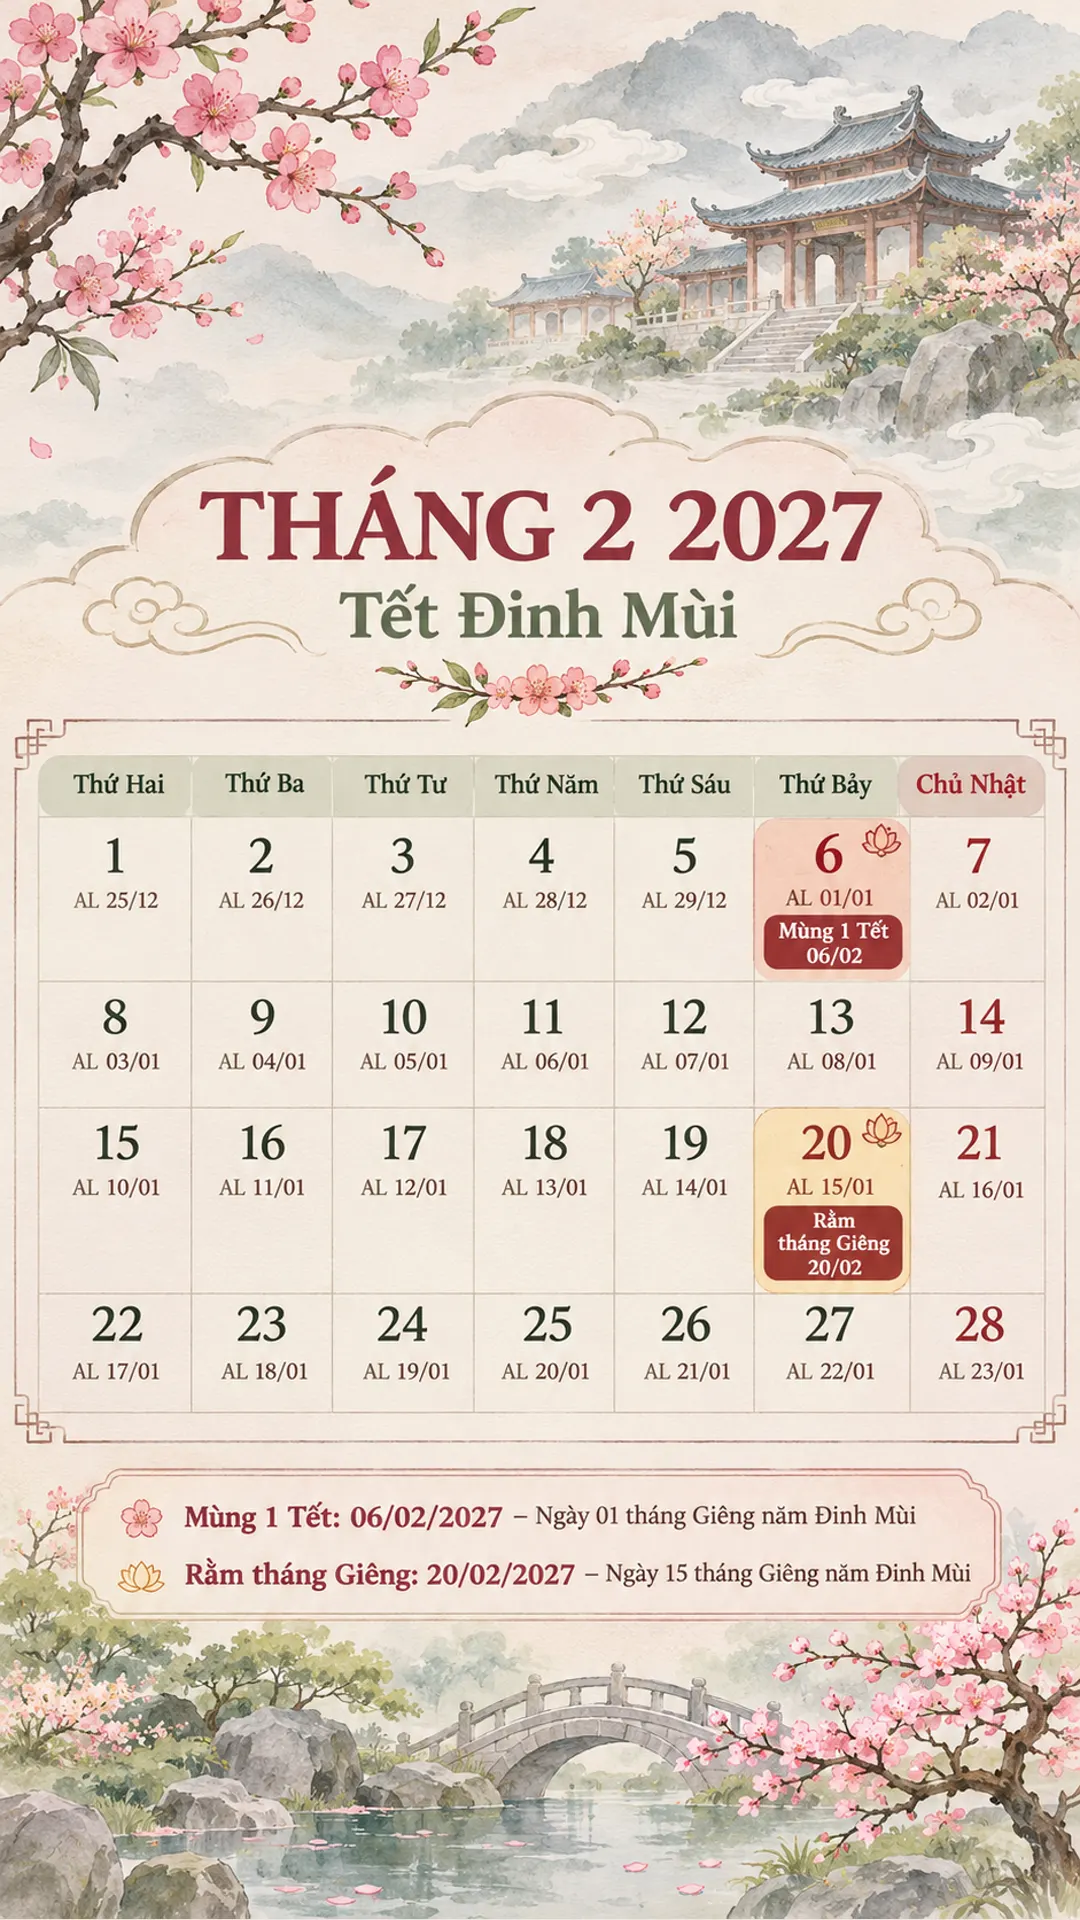
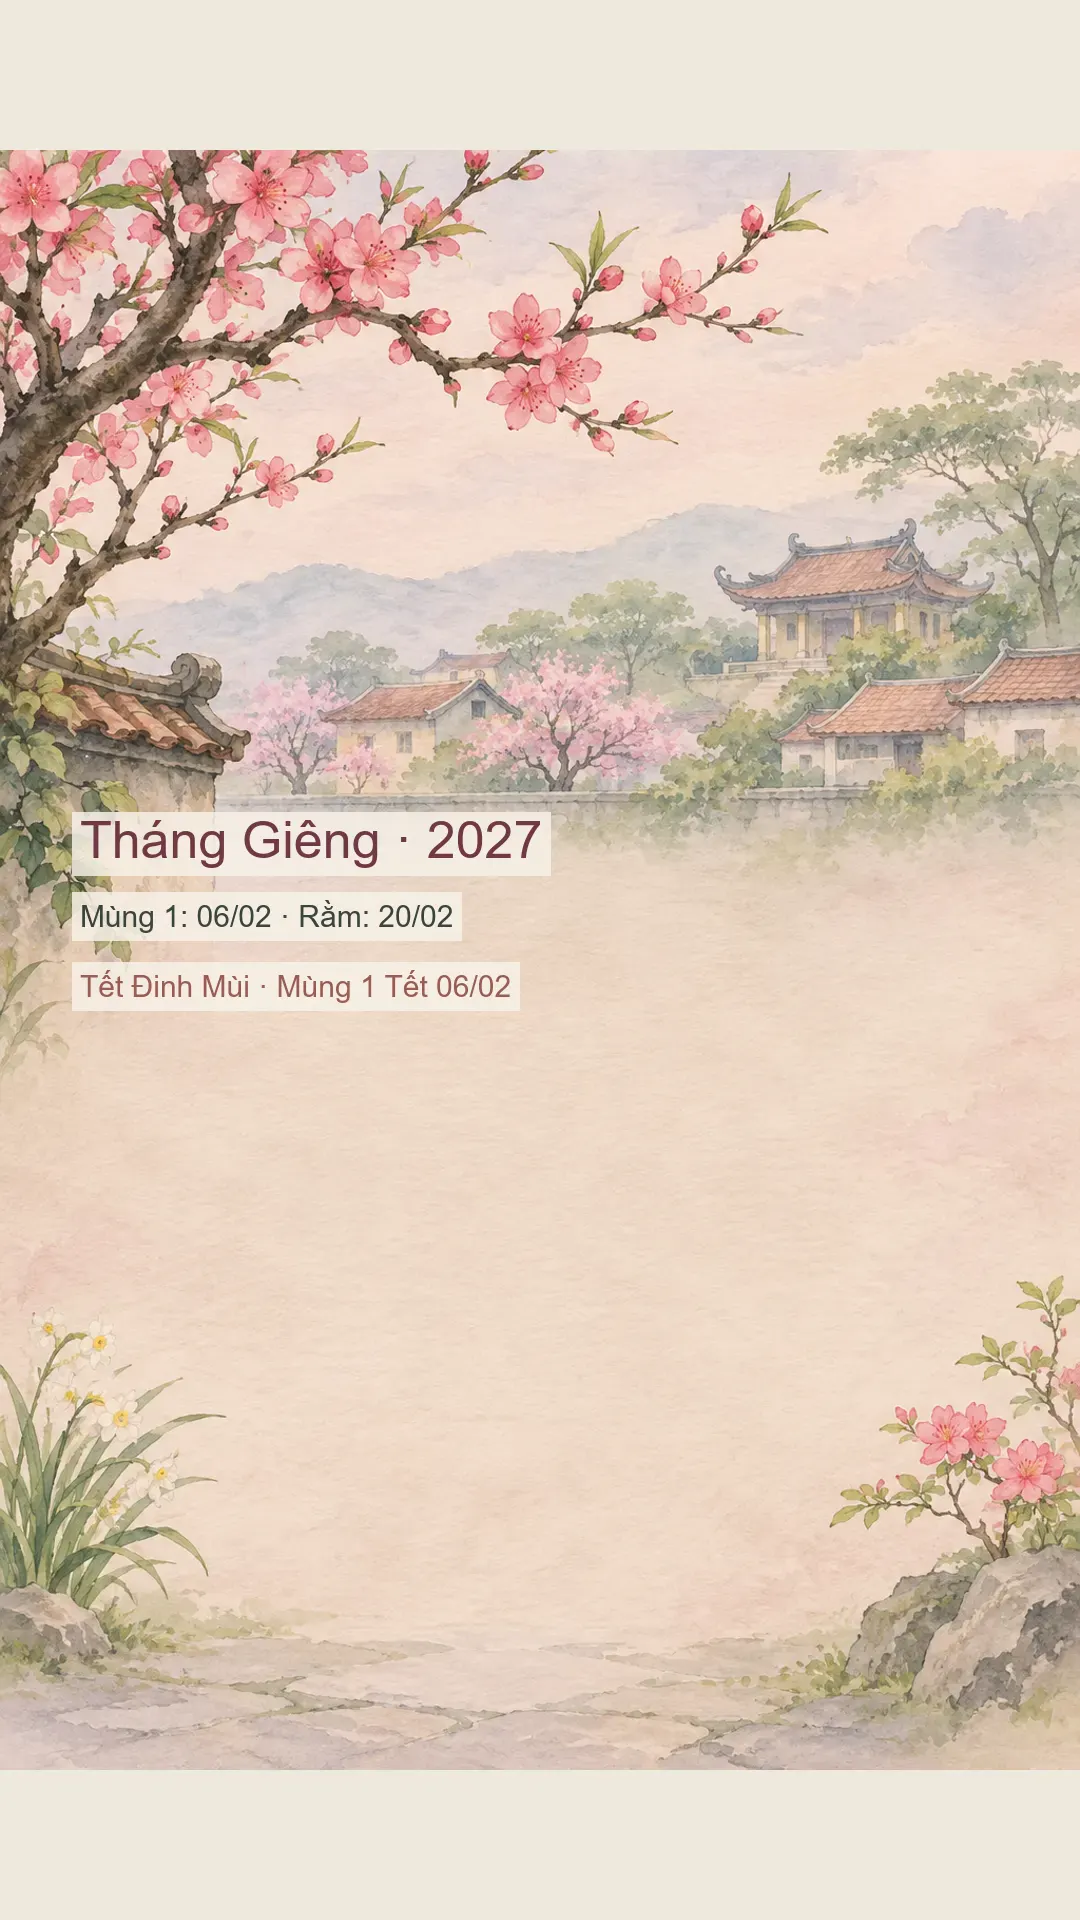
fix: render calendar dates from lunar algorithm

diff --git a/CCGS/temple-town/v3-08-digital-calendar.md b/CCGS/temple-town/v3-08-digital-calendar.md
@@ -48,4 +48,5 @@
 
 - `review/p34-calendar/calendar-2027-feb.webp`：2027 年 2 月含 Tết 手机壁纸样张。
 - `review/p34-calendar/calendar-2027-overview.webp`：全年总览样张。
+- P39 修订脚本：`tools/render-calendar-2027.mjs` 读取 `tools/calendar-2027-dates.json`，调用仓库已有的 Hồ Ngọc Đức UTC+7 算法，断言 24 个 mùng 1/rằm 日期后再用日期层排字，生成总览、2 月、9 月和 10 月图；AI 图只提供背景。
 - `*-background.webp` 和 SVG overlay 是生成/排版过程参考；所有图均为 Codex 内置 imagegen 或本地排版样张，external_source=none，generated=2026-11-12，status=review-only，未进入正式素材目录。
